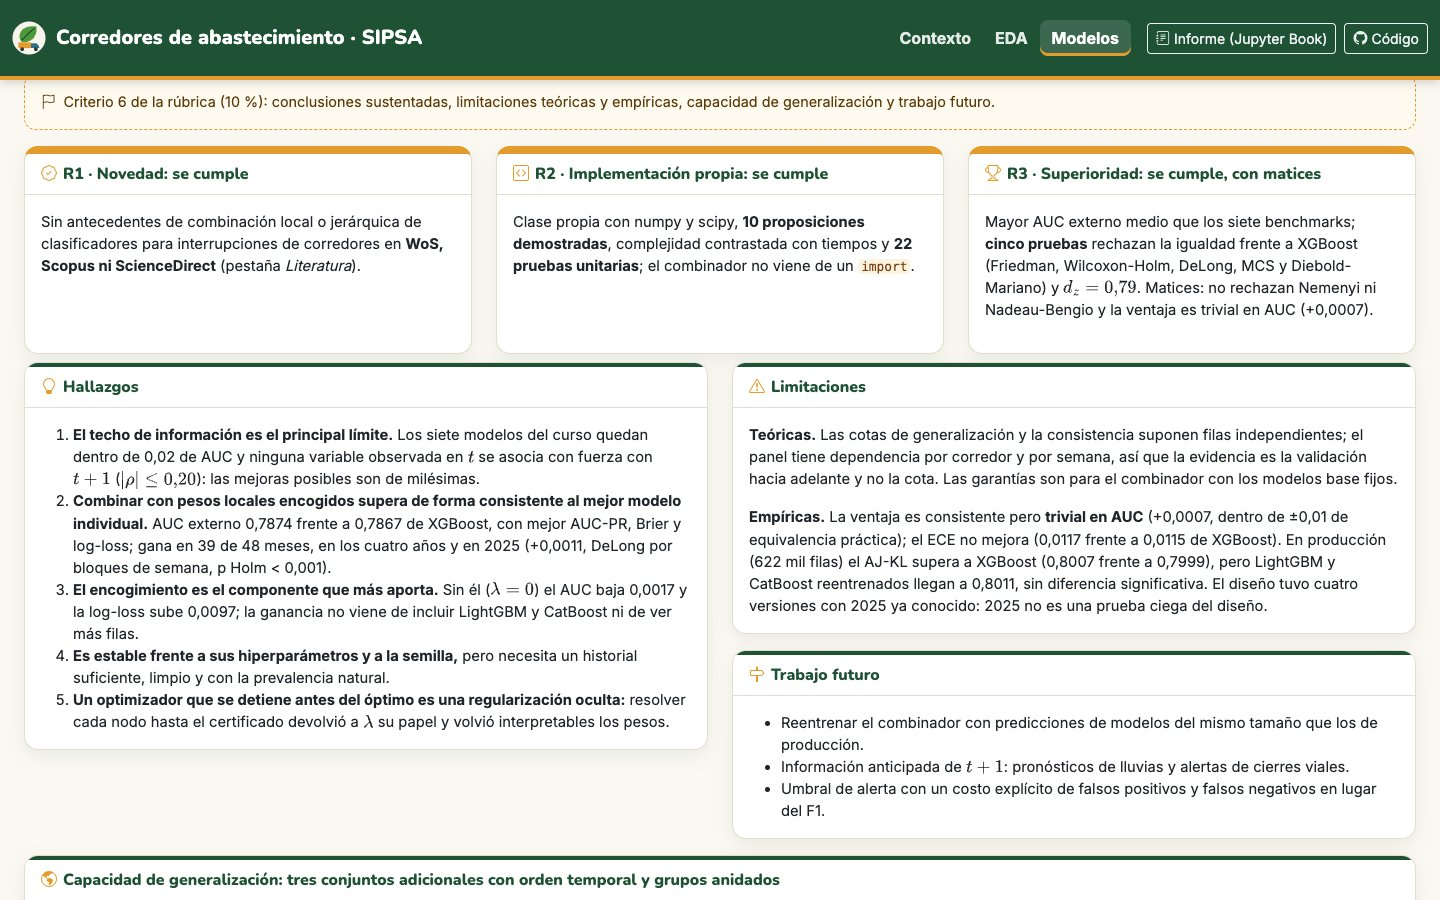
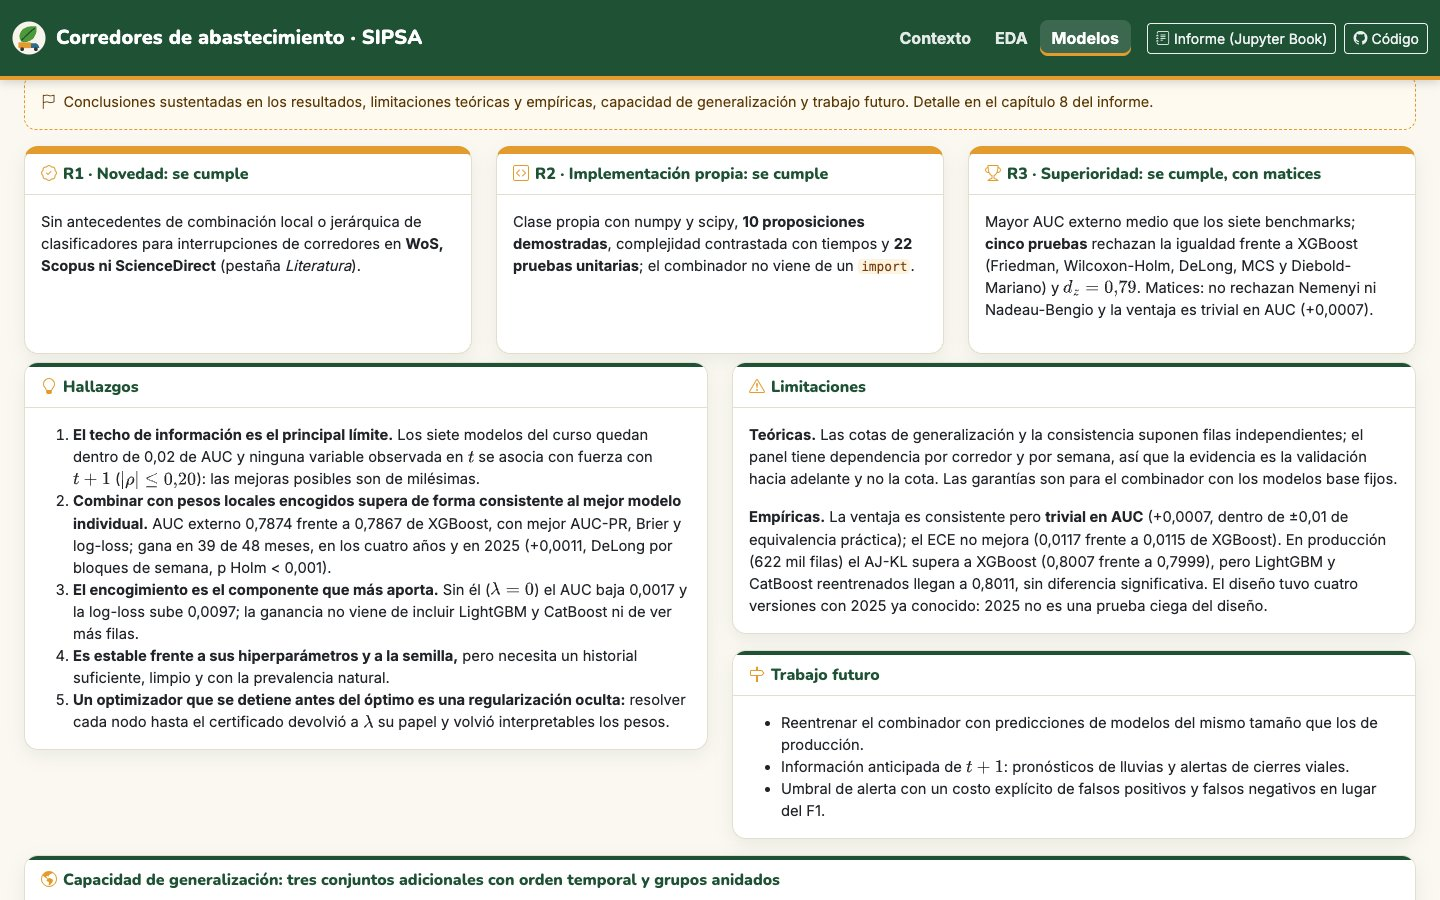
Quitar del tablero el recorrido de la sustentación y las referencias a la rúbrica
El recorrido con los criterios, tiempos y pesos queda solo en
GUIA_SUSTENTACION.md, ahora con los enlaces directos de cada parada. Las notas
de las pestañas de fundamentos, diseño y conclusiones describen su contenido
sin citar la rúbrica. Capítulo 7, trazabilidad, matriz de cumplimiento y
capturas actualizados (13 capturas).

Changed region(s): [[0.0625, 0.0933, 0.8125, 0.1244]]

diff --git a/assets/estilo.css b/assets/estilo.css
@@ -95,7 +95,7 @@ label, .form-label { font-weight: 700; font-size: .84rem; color: var(--verde); }
   .hero { padding: 18px; }
 }
 
-/* secciones de la sustentación: ecuaciones, guía de la rúbrica y veredictos */
+/* pestañas de fundamentos, literatura, diseño y conclusiones: ecuaciones, notas de sección y veredictos */
 .md-sustentacion { font-size: .92rem; line-height: 1.5; }
 .md-sustentacion p:last-child, .md-sustentacion ul:last-child, .md-sustentacion ol:last-child { margin-bottom: 0; }
 .md-sustentacion table { width: 100%; font-size: .84rem; margin-bottom: .6rem; }
@@ -106,14 +106,11 @@ mjx-container[display="true"] { overflow-x: auto; overflow-y: hidden; max-width:
 .tabla-md td, .tabla-md th { font-size: .84rem; vertical-align: top; }
 .tabla-md th { background: #e9f2ea !important; color: var(--verde); }
 .tabla-md p { margin-bottom: 0; }
-.guia-rubrica { border: 1px dashed var(--ambar); background: #fffaf0; color: #5b3a07; font-size: .9rem; border-radius: 12px; }
+.nota-seccion { border: 1px dashed var(--ambar); background: #fffaf0; color: #5b3a07; font-size: .9rem; border-radius: 12px; }
 .tarjeta-veredicto { border-top: 4px solid var(--ambar); }
 .tarjeta-veredicto .card-header { border-top-color: var(--ambar); }
 .accordion-button { font-weight: 700; color: var(--verde); }
 .accordion-button:not(.collapsed) { background: #f3f7f1; color: var(--verde); box-shadow: none; }
-.recorrido .badge { background: var(--verde) !important; }
-.recorrido td { vertical-align: middle; font-size: .9rem; }
-.recorrido-card .card-header { border-top-color: var(--ambar); }
 .nav-tabs { flex-wrap: wrap; }
 @media (max-width: 768px) {
   .nav-tabs { flex-wrap: nowrap; overflow-x: auto; overflow-y: hidden; }

diff --git a/src/sustentacion.py b/src/sustentacion.py
@@ -1,4 +1,4 @@
-"""Secciones del dashboard que siguen la rúbrica de la sustentación.
+"""Secciones del dashboard que sostienen la sustentación (fundamentos, literatura, diseño, validación y conclusiones).
 
 Reúne los textos (con ecuaciones en LaTeX, que dibuja MathJax) y los bloques de las pestañas de fundamentos,
 literatura, diseño experimental, validación, errores y conclusiones. Los textos resumen los capítulos 4 a 8 del
@@ -296,9 +296,9 @@ def fundamentos() -> list:
     nod = DT.tabla("encogimiento_nodos")
     comp = DT.tabla("complejidad_ajkl")
     bloques = [
-        dbc.Alert([html.I(className="bi bi-mortarboard me-2"), "Criterio 3 de la rúbrica (25 %): formulación del algoritmo, función "
-                   "objetivo, fundamento estadístico y matemático, optimización, supuestos, regularización, complejidad y "
-                   "generalización. Las demostraciones completas están en el capítulo 5 del informe."], color="light", className="guia-rubrica"),
+        dbc.Alert([html.I(className="bi bi-mortarboard me-2"), "Formulación del algoritmo, función objetivo, fundamento estadístico y "
+                   "matemático, optimización, supuestos, regularización, complejidad y generalización. Las demostraciones "
+                   "completas están en el capítulo 5 del informe."], color="light", className="nota-seccion"),
         tarjeta("Formulación matemática y función objetivo", md(FORMULACION_AJKL), "function"),
         tarjeta("Principio de optimización: descenso espejo con certificado", md(OPTIMIZACION), "graph-down-arrow"),
         dbc.Row([
@@ -405,7 +405,7 @@ def literatura() -> list:
     afines = DT.tabla("metodos_afines")
     bloques = [dbc.Alert([html.I(className="bi bi-search me-2"), "Evidencia de novedad (condición R1): la novedad no se declara, se "
                           "contrasta con una búsqueda documentada. Detalle completo en el capítulo 4 del informe."],
-                         color="light", className="guia-rubrica")]
+                         color="light", className="nota-seccion")]
     tot = m.groupby("base", sort=False)[["resultados", "revisados", "relevantes"]].sum() if len(m) else pd.DataFrame()
     bloques.append(dbc.Row([
         dbc.Col(tarjeta("Protocolo de búsqueda", md(PROTOCOLO_LITERATURA), "journal-text"), lg=5),
@@ -494,9 +494,9 @@ def diseno() -> list:
     pl = DT.tabla("pliegues")
     hp = DT.tabla("hiperparametros_ajkl")
     hist = DT.tabla("tpe_historial")
-    bloques = [dbc.Alert([html.I(className="bi bi-gear-wide-connected me-2"), "Criterio 4 de la rúbrica (15 %): implementación, "
-                          "hiperparámetros, separación de los datos, estrategia de validación, reproducibilidad y decisiones "
-                          "computacionales."], color="light", className="guia-rubrica"),
+    bloques = [dbc.Alert([html.I(className="bi bi-gear-wide-connected me-2"), "Implementación, hiperparámetros, separación de los "
+                          "datos, estrategia de validación, reproducibilidad y decisiones computacionales. Detalle en los capítulos "
+                          "3, 5 y 9 del informe."], color="light", className="nota-seccion"),
                tarjeta("Separación de los datos y estrategia de validación", [
                    dcc.Graph(figure=PL.linea_tiempo_pliegues(pl)) if len(pl) else html.Div(), md(VALIDACION_ANIDADA)], "calendar-range")]
     if len(hp):
@@ -692,9 +692,9 @@ FUTURO = r"""
 def conclusiones() -> list:
     R = DT.resultados()
     ext = DT.tabla("externos")
-    bloques = [dbc.Alert([html.I(className="bi bi-flag me-2"), "Criterio 6 de la rúbrica (10 %): conclusiones sustentadas, "
-                          "limitaciones teóricas y empíricas, capacidad de generalización y trabajo futuro."],
-                         color="light", className="guia-rubrica"),
+    bloques = [dbc.Alert([html.I(className="bi bi-flag me-2"), "Conclusiones sustentadas en los resultados, limitaciones teóricas y "
+                          "empíricas, capacidad de generalización y trabajo futuro. Detalle en el capítulo 8 del informe."],
+                         color="light", className="nota-seccion"),
                dbc.Row([dbc.Col(tarjeta(t, md(x), i, clase="h-100 tarjeta-veredicto"), md=4, className="mb-2") for t, x, i in [
                    ("R1 · Novedad: se cumple", "Sin antecedentes de combinación local o jerárquica de clasificadores para "
                     "interrupciones de corredores en **WoS, Scopus ni ScienceDirect** (pestaña *Literatura*).", "patch-check"),
@@ -726,35 +726,3 @@ def conclusiones() -> list:
                     "pestaña «Modelo AJ-KL»). Cuatro pliegues por conjunto no alcanzan para una prueba formal."),
         ], "globe-americas"))
     return bloques
-
-
-# ------------------------------------------------------------------------------- recorrido de la sustentación
-RECORRIDO = [
-    ("1", "Problema y formulación matemática", 2, 10, [("Contexto: pregunta, formulación y datos", "/#formulacion")]),
-    ("2", "EDA, datos y preprocesamiento", 3, 15, [("EDA", "/eda"), ("Transformaciones y fuga", "/eda#fuga")]),
-    ("3", "Fundamentos teóricos del modelo", 5, 25, [("Modelo AJ-KL", "/modelos?tab=t-orig"), ("Fundamentos", "/modelos?tab=t-fund"),
-                                                      ("Literatura y novedad", "/modelos?tab=t-lit")]),
-    ("4", "Implementación y diseño experimental", 3, 15, [("Diseño experimental", "/modelos?tab=t-diseno")]),
-    ("5", "Resultados y evaluación crítica", 3, 15, [("Líderes y métricas", "/modelos?tab=t-lideres"), ("Predicción en vivo", "/modelos?tab=t-pred"),
-                                                      ("Validación estadística", "/modelos?tab=t-comp"), ("Diagnóstico y errores", "/modelos?tab=t-diag")]),
-    ("6", "Conclusiones y limitaciones", 2, 10, [("Conclusiones", "/modelos?tab=t-concl")]),
-    ("7", "Dominio teórico y preguntas", 2, 10, [("Informe técnico", DT.LIBRO), ("Código", DT.REPO)]),
-]
-
-
-def recorrido() -> dbc.Card:
-    filas = []
-    for n, criterio, minutos, peso, enlaces in RECORRIDO:
-        links = []
-        for i, (texto, href) in enumerate(enlaces):
-            externo = href.startswith("http")
-            links += ([" · "] if i else []) + [html.A(texto, href=href, target="_blank" if externo else None)
-                                               if externo or "#" in href else dcc.Link(texto, href=href)]
-        filas.append(html.Tr([html.Td(html.Span(n, className="badge rounded-pill")), html.Td(criterio),
-                              html.Td(f"{minutos} min"), html.Td(f"{peso} %"), html.Td(links)]))
-    return dbc.Card([dbc.CardHeader([html.I(className="bi bi-easel2", **{"aria-hidden": "true"}),
-                                     "Recorrido de la sustentación (rúbrica: 7 criterios, 20 minutos)"]),
-                     dbc.CardBody(dbc.Table([html.Thead(html.Tr([html.Th(""), html.Th("Criterio"), html.Th("Tiempo"),
-                                                                 html.Th("Peso"), html.Th("Dónde está en el tablero")])),
-                                             html.Tbody(filas)], hover=True, responsive=True, size="sm", className="mb-0 recorrido"))],
-                    className="recorrido-card")

diff --git a/scripts/27_capturas_dashboard.py b/scripts/27_capturas_dashboard.py
@@ -1,7 +1,7 @@
 """Capturas del dashboard para el capítulo 7 del libro (book/figuras/).
 
 Abre Chrome sin interfaz con el protocolo DevTools, recorre las tres páginas, abre cada pestaña de
-Modelos con su enlace directo (incluida una predicción en vivo con un corredor real) y guarda 14 capturas en JPG. El mapa usa
+Modelos con su enlace directo (incluida una predicción en vivo con un corredor real) y guarda 13 capturas en JPG. El mapa usa
 WebGL, por eso Chrome se lanza con SwiftShader (WebGL por software).
 
 Requisitos: el dashboard corriendo (python app.py) y `websocket-client`.
@@ -97,11 +97,9 @@ def main():
         p.cmd("Page.enable")
         W, H = 1440, 900
         p.tamano(W, H)
-        # Contexto: portada, recorrido de la sustentación y mapa de los corredores
+        # Contexto: portada y mapa de los corredores
         p.ir(BASE + "/", 9)
         p.captura("dash_contexto", W, H)
-        p.bajar_a("Recorrido de la sustentación", 90)
-        p.captura("dash_recorrido", W, H)
         p.bajar_a("El mapa de los corredores")
         time.sleep(4)
         p.captura("dash_mapa", W, H)

diff --git a/pages/contexto.py b/pages/contexto.py
@@ -1,4 +1,4 @@
-"""Sección 1: Contexto (narrativa, formulación del problema, mapa de los corredores y recorrido de la sustentación)."""
+"""Sección 1: Contexto (narrativa, formulación del problema y mapa de los corredores)."""
 import dash
 import dash_bootstrap_components as dbc
 from dash import Input, Output, callback, dash_table, dcc, html
@@ -79,8 +79,6 @@ def layout(**_):
             (num(R["centrales"]), "Centrales mayoristas", "shop", ""),
             (num(R["semanas"]), "Semanas (2018-2025)", "calendar-week", "kpi-ambar"),
         ]]),
-
-        S.recorrido(),
 
         dbc.Card([encabezado("geo-alt-fill", "El mapa de los corredores"), dbc.CardBody([
             dbc.Row([

diff --git a/src/plots.py b/src/plots.py
@@ -347,7 +347,7 @@ def mapa_corredores(corr: pd.DataFrame, cent: pd.DataFrame, central: str | None 
     return fig
 
 
-# ------------------------------------------------------------------------------- sustentación (rúbrica)
+# ------------------------------------------------------------------------------- fundamentos, diseño, validación y errores
 def linea_tiempo_pliegues(pl: pd.DataFrame) -> go.Figure:
     """Bloques de la validación anidada: entrenamiento, hueco y validación (o prueba 2025) de cada pliegue."""
     fig = go.Figure()

diff --git a/pages/modelos.py b/pages/modelos.py
@@ -1,7 +1,7 @@
 """Sección 3: Modelos (líderes, predicción en vivo con SHAP local, modelo original y sus fundamentos, literatura,
 diseño experimental, validación estadística, diagnóstico y conclusiones).
 
-Las pestañas siguen la rúbrica de la sustentación; cada una se puede abrir directamente con /modelos?tab=<id>."""
+Cada pestaña se puede abrir directamente con /modelos?tab=<id>."""
 import dash
 import dash_bootstrap_components as dbc
 import numpy as np

diff --git a/scripts/28_sustentacion_dashboard.py b/scripts/28_sustentacion_dashboard.py
@@ -1,4 +1,4 @@
-"""Datos de las secciones del dashboard que siguen la rúbrica de la sustentación (data/dashboard/).
+"""Datos de las pestañas de fundamentos, literatura, diseño, validación, errores y conclusiones (data/dashboard/).
 
   pliegues.parquet              fechas de entrenamiento, hueco y validación de cada bloque de la validación anidada
   hiperparametros_ajkl.parquet  hiperparámetros que eligió TPE en cada pliegue, historial y nodos del combinador

diff --git a/src/data.py b/src/data.py
@@ -102,7 +102,7 @@ def resultados() -> dict:
 
 @lru_cache(maxsize=None)
 def sustentacion() -> dict:
-    """Cifras sueltas de las secciones que siguen la rúbrica (scripts/28_sustentacion_dashboard.py)."""
+    """Cifras sueltas de las pestañas de fundamentos, literatura y robustez (scripts/28_sustentacion_dashboard.py)."""
     return _json("sustentacion")
 
 

diff --git a/GUIA_SUSTENTACION.md b/GUIA_SUSTENTACION.md
@@ -1,18 +1,17 @@
 # Guía para la sustentación (rúbrica ProyectosFinalesML202630)
 
-La sustentación se hace sobre el dashboard desplegado (guía, sección 11), sin diapositivas. La tarjeta
-«Recorrido de la sustentación» de la portada tiene los siete criterios de la rúbrica con su tiempo, su peso y
-enlaces directos a cada página o pestaña. Orden sugerido (20 minutos):
+La sustentación se hace sobre el dashboard desplegado (guía, sección 11), sin diapositivas. Esta tabla es el
+recorrido interno: el tablero no muestra la rúbrica. Orden sugerido (20 minutos), con el enlace directo de cada parada:
 
-| Min. | Criterio (peso) | Dónde | Qué mostrar |
+| Min. | Criterio (peso) | Enlaces | Qué mostrar |
 |---|---|---|---|
-| 2 | 1 · Problema y formulación (10 %) | Contexto | Portada, mapa (elegir una central, por ejemplo Corabastos), pregunta y formulación matemática |
-| 3 | 2 · EDA y preprocesamiento (15 %) | EDA | Serie con los choques, balance, estadística descriptiva, correlación y faltantes; tarjeta de transformaciones y fuga |
-| 5 | 3 · Fundamentos teóricos (25 %) | Modelos → Modelo AJ-KL, Fundamentos teóricos, Literatura y novedad | Idea y pseudocódigo; función objetivo, descenso espejo, KL como prior, proposiciones; búsqueda en las tres bases y declaración de novedad |
-| 3 | 4 · Implementación y diseño (15 %) | Modelos → Diseño experimental | Línea de tiempo de la validación anidada, hiperparámetros elegidos, implementación y reproducibilidad |
-| 3 | 5 · Resultados y evaluación crítica (15 %) | Modelos → Líderes, Predicción en vivo, Validación estadística, Diagnóstico y errores | Métricas, una predicción real con su explicación, pruebas y robustez, sobreajuste y errores por subgrupo |
-| 2 | 6 · Conclusiones (10 %) | Modelos → Conclusiones | R1, R2 y R3, limitaciones y trabajo futuro |
-| 2 | 7 · Preguntas (10 %) | Informe y código | Tener abierto `src/original_model.py` y el entorno listo para `pytest` |
+| 2 | 1 · Problema y formulación (10 %) | [Contexto](https://sipsa-corredores-e3-2uw9.onrender.com/) · [formulación](https://sipsa-corredores-e3-2uw9.onrender.com/#formulacion) | Portada, mapa (elegir una central, por ejemplo Corabastos), pregunta y formulación matemática |
+| 3 | 2 · EDA y preprocesamiento (15 %) | [EDA](https://sipsa-corredores-e3-2uw9.onrender.com/eda) · [transformaciones y fuga](https://sipsa-corredores-e3-2uw9.onrender.com/eda#fuga) | Serie con los choques, balance, estadística descriptiva, correlación y faltantes; tarjeta de transformaciones y fuga |
+| 5 | 3 · Fundamentos teóricos (25 %) | [Modelo AJ-KL](https://sipsa-corredores-e3-2uw9.onrender.com/modelos?tab=t-orig) · [Fundamentos](https://sipsa-corredores-e3-2uw9.onrender.com/modelos?tab=t-fund) · [Literatura](https://sipsa-corredores-e3-2uw9.onrender.com/modelos?tab=t-lit) | Idea y pseudocódigo; función objetivo, descenso espejo, KL como prior, proposiciones; búsqueda en las tres bases y declaración de novedad |
+| 3 | 4 · Implementación y diseño (15 %) | [Diseño experimental](https://sipsa-corredores-e3-2uw9.onrender.com/modelos?tab=t-diseno) | Línea de tiempo de la validación anidada, hiperparámetros elegidos, implementación y reproducibilidad |
+| 3 | 5 · Resultados y evaluación crítica (15 %) | [Líderes](https://sipsa-corredores-e3-2uw9.onrender.com/modelos?tab=t-lideres) · [Predicción](https://sipsa-corredores-e3-2uw9.onrender.com/modelos?tab=t-pred) · [Validación](https://sipsa-corredores-e3-2uw9.onrender.com/modelos?tab=t-comp) · [Diagnóstico](https://sipsa-corredores-e3-2uw9.onrender.com/modelos?tab=t-diag) | Métricas, una predicción real con su explicación, pruebas y robustez, sobreajuste y errores por subgrupo |
+| 2 | 6 · Conclusiones (10 %) | [Conclusiones](https://sipsa-corredores-e3-2uw9.onrender.com/modelos?tab=t-concl) | R1, R2 y R3, limitaciones y trabajo futuro |
+| 2 | 7 · Preguntas (10 %) | [Informe](https://linamarbg.github.io/Entregable3MachineLearningProject/) · [Código](https://github.com/linamarbg/Entregable3MachineLearningProject) | Tener abierto `src/original_model.py` y el entorno listo para `pytest` |
 
 Abran la URL de Render unos minutos antes: el plan gratuito tarda cerca de un minuto en despertar.
 

diff --git a/book/07_dashboard.md b/book/07_dashboard.md
@@ -3,8 +3,9 @@
 El dashboard está publicado en **<https://sipsa-corredores-e3-2uw9.onrender.com>**. Es una aplicación multipágina
 de Dash (`use_pages=True`) con tres secciones, Contexto, EDA y Modelos, pensada para que una persona sin
 formación en aprendizaje automático entienda el problema, explore los datos y use los modelos. Desde la
-versión 3.1 sirve además de soporte de la sustentación: sus pestañas siguen los siete criterios de la rúbrica y
-la portada tiene un recorrido con el tiempo, el peso y el enlace de cada criterio ({numref}`fig-dash-recorrido`).
+versión 3.1 también presenta el fundamento teórico y estadístico del modelo original, la revisión de literatura,
+el diseño experimental, la robustez y las conclusiones, de modo que la sustentación se puede hacer sobre el
+tablero.
 
 ## 7.1 Arquitectura
 
@@ -12,14 +13,14 @@ la portada tiene un recorrido con el tiempo, el peso y el enlace de cada criteri
 Entregable3MachineLearningProject/
 ├── app.py                  # crea la app, la barra de navegación fija y expone `server` para gunicorn
 ├── pages/
-│   ├── contexto.py         # sección 1: narrativa, recorrido de la sustentación, formulación, mapa, diccionario, ética
+│   ├── contexto.py         # sección 1: narrativa, formulación del problema, mapa, diccionario, metodología, ética
 │   ├── eda.py              # sección 2: filtros globales, estadística descriptiva, figuras, transformaciones y fuga
 │   └── modelos.py          # sección 3: nueve pestañas, de los líderes a las conclusiones (/modelos?tab=...)
 ├── src/
 │   ├── original_model.py   # clase ApilamientoJerarquicoKL (AJ-KL, numpy + scipy)
 │   ├── data.py             # carga única y en caché (lru_cache) de datos y artefactos
 │   ├── plots.py            # funciones de figuras Plotly reutilizadas por el dashboard y el libro
-│   ├── sustentacion.py     # textos con ecuaciones (MathJax) y bloques de las pestañas que siguen la rúbrica
+│   ├── sustentacion.py     # textos con ecuaciones (MathJax) y bloques de fundamentos, literatura, diseño y conclusiones
 │   ├── explicacion.py      # valores de Shapley por permutaciones para la explicación local
 │   └── artefactos.py       # tuberías completas, AJKLProduccion, metadatos y esquema de entrada
 ├── artifacts/              # 10 modelos serializados (7 del curso, LightGBM, CatBoost y AJ-KL) (joblib, compress=3), metadata.json y predicciones de referencia
@@ -52,20 +53,12 @@ después: los corredores largos, los de poco volumen y los que salen de municipi
 la pregunta de investigación y los objetivos, la **formulación matemática del problema** (razón de
 abastecimiento, variable objetivo, predictores medibles en $t$, tarea y criterio de evaluación, con ecuaciones
 dibujadas por MathJax), la fuente y el periodo de los datos, un diccionario de variables que se puede filtrar,
-el diagrama de la metodología y una sección de limitaciones, ética y sesgos. Bajo las cifras está el
-**recorrido de la sustentación**: los siete criterios de la rúbrica con su tiempo, su peso y enlaces directos a la
-página o pestaña donde se presenta cada uno.
+el diagrama de la metodología y una sección de limitaciones, ética y sesgos.
 
 ```{figure} figuras/dash_contexto.jpg
 :name: fig-dash-contexto
 :width: 95%
 Sección Contexto: portada con la ilustración del corredor y cifras clave.
-```
-
-```{figure} figuras/dash_recorrido.jpg
-:name: fig-dash-recorrido
-:width: 95%
-Recorrido de la sustentación: cada criterio de la rúbrica enlaza con la página o pestaña que lo cubre.
 ```
 
 ```{figure} figuras/dash_mapa.jpg

diff --git a/CUMPLIMIENTO_ENTREGABLE3.md b/CUMPLIMIENTO_ENTREGABLE3.md
@@ -61,7 +61,7 @@ rúbrica). Estado: ✅ cumple · 🔧 cumple después de esta revisión · ⏳ d
 | Contexto: problema con cifra citada, pregunta, datos, diccionario, metodología, limitaciones y ética | ✅ | Página Contexto, con ilustración propia, mapa de corredores, formulación matemática del problema y recorrido de la sustentación |
 | EDA: filtros globales con callbacks, objetivo, univariadas, explorador bivariado, correlación, faltantes, atípicos, series de tiempo e interpretación por figura | ✅ | Página EDA, con estadística descriptiva filtrable y tarjeta de transformaciones y prevención de fuga; correlación y faltantes optimizados para Render |
 | Modelos: líderes, predicción en vivo con validación y SHAP local, diagnóstico, SHAP global, comparación estadística y subsección del modelo original | ✅ | Página Modelos (nueve pestañas con enlace directo): además de las anteriores, fundamentos teóricos con ecuaciones y las 10 proposiciones, literatura y novedad, diseño experimental, robustez, sobreajuste, errores por subgrupo y conclusiones |
-| Sustentación sobre el dashboard (guía, sección 11) siguiendo la rúbrica ProyectosFinalesML202630 | 🔧 | Los 7 criterios de la rúbrica están cubiertos en el tablero; recorrido con tiempos y enlaces en la portada; `GUIA_SUSTENTACION.md` reordenada. Ya no hacen falta diapositivas |
+| Sustentación sobre el dashboard (guía, sección 11) siguiendo la rúbrica ProyectosFinalesML202630 | 🔧 | Los 7 criterios de la rúbrica están cubiertos en el tablero, que no muestra la rúbrica; el recorrido con tiempos y enlaces directos es interno (`GUIA_SUSTENTACION.md`). Ya no hacen falta diapositivas |
 | Diseño: paleta ≤ 5 colores, tipografía, barra fija, plantilla Plotly, responsividad, rendimiento, robustez y accesibilidad | 🔧 | Nueva identidad visual del tema: verde montaña, azul río, ámbar cosecha, rojo tomate y gris piedra; cinco ilustraciones SVG propias con texto alternativo; menú que se colapsa en tableta |
 
 ## Bloque F. Despliegue en Render (sección 8)
@@ -87,4 +87,4 @@ rúbrica). Estado: ✅ cumple · 🔧 cumple después de esta revisión · ⏳ d
    Camilo queda como remoto `camilo`) y Render redespliega el dashboard con cada `git push` a `main`.
 3. Libro: publicado en GitHub Pages (rama `gh-pages`). Después de cualquier cambio, recompilar y repetir
    `~/.venvs/entregable3/bin/ghp-import -n -p -f book/_build/html`.
-4. Ensayar la sustentación sobre el dashboard con el recorrido de la portada (20 minutos, `GUIA_SUSTENTACION.md`).
+4. Ensayar la sustentación sobre el dashboard con el recorrido de `GUIA_SUSTENTACION.md` (20 minutos).
